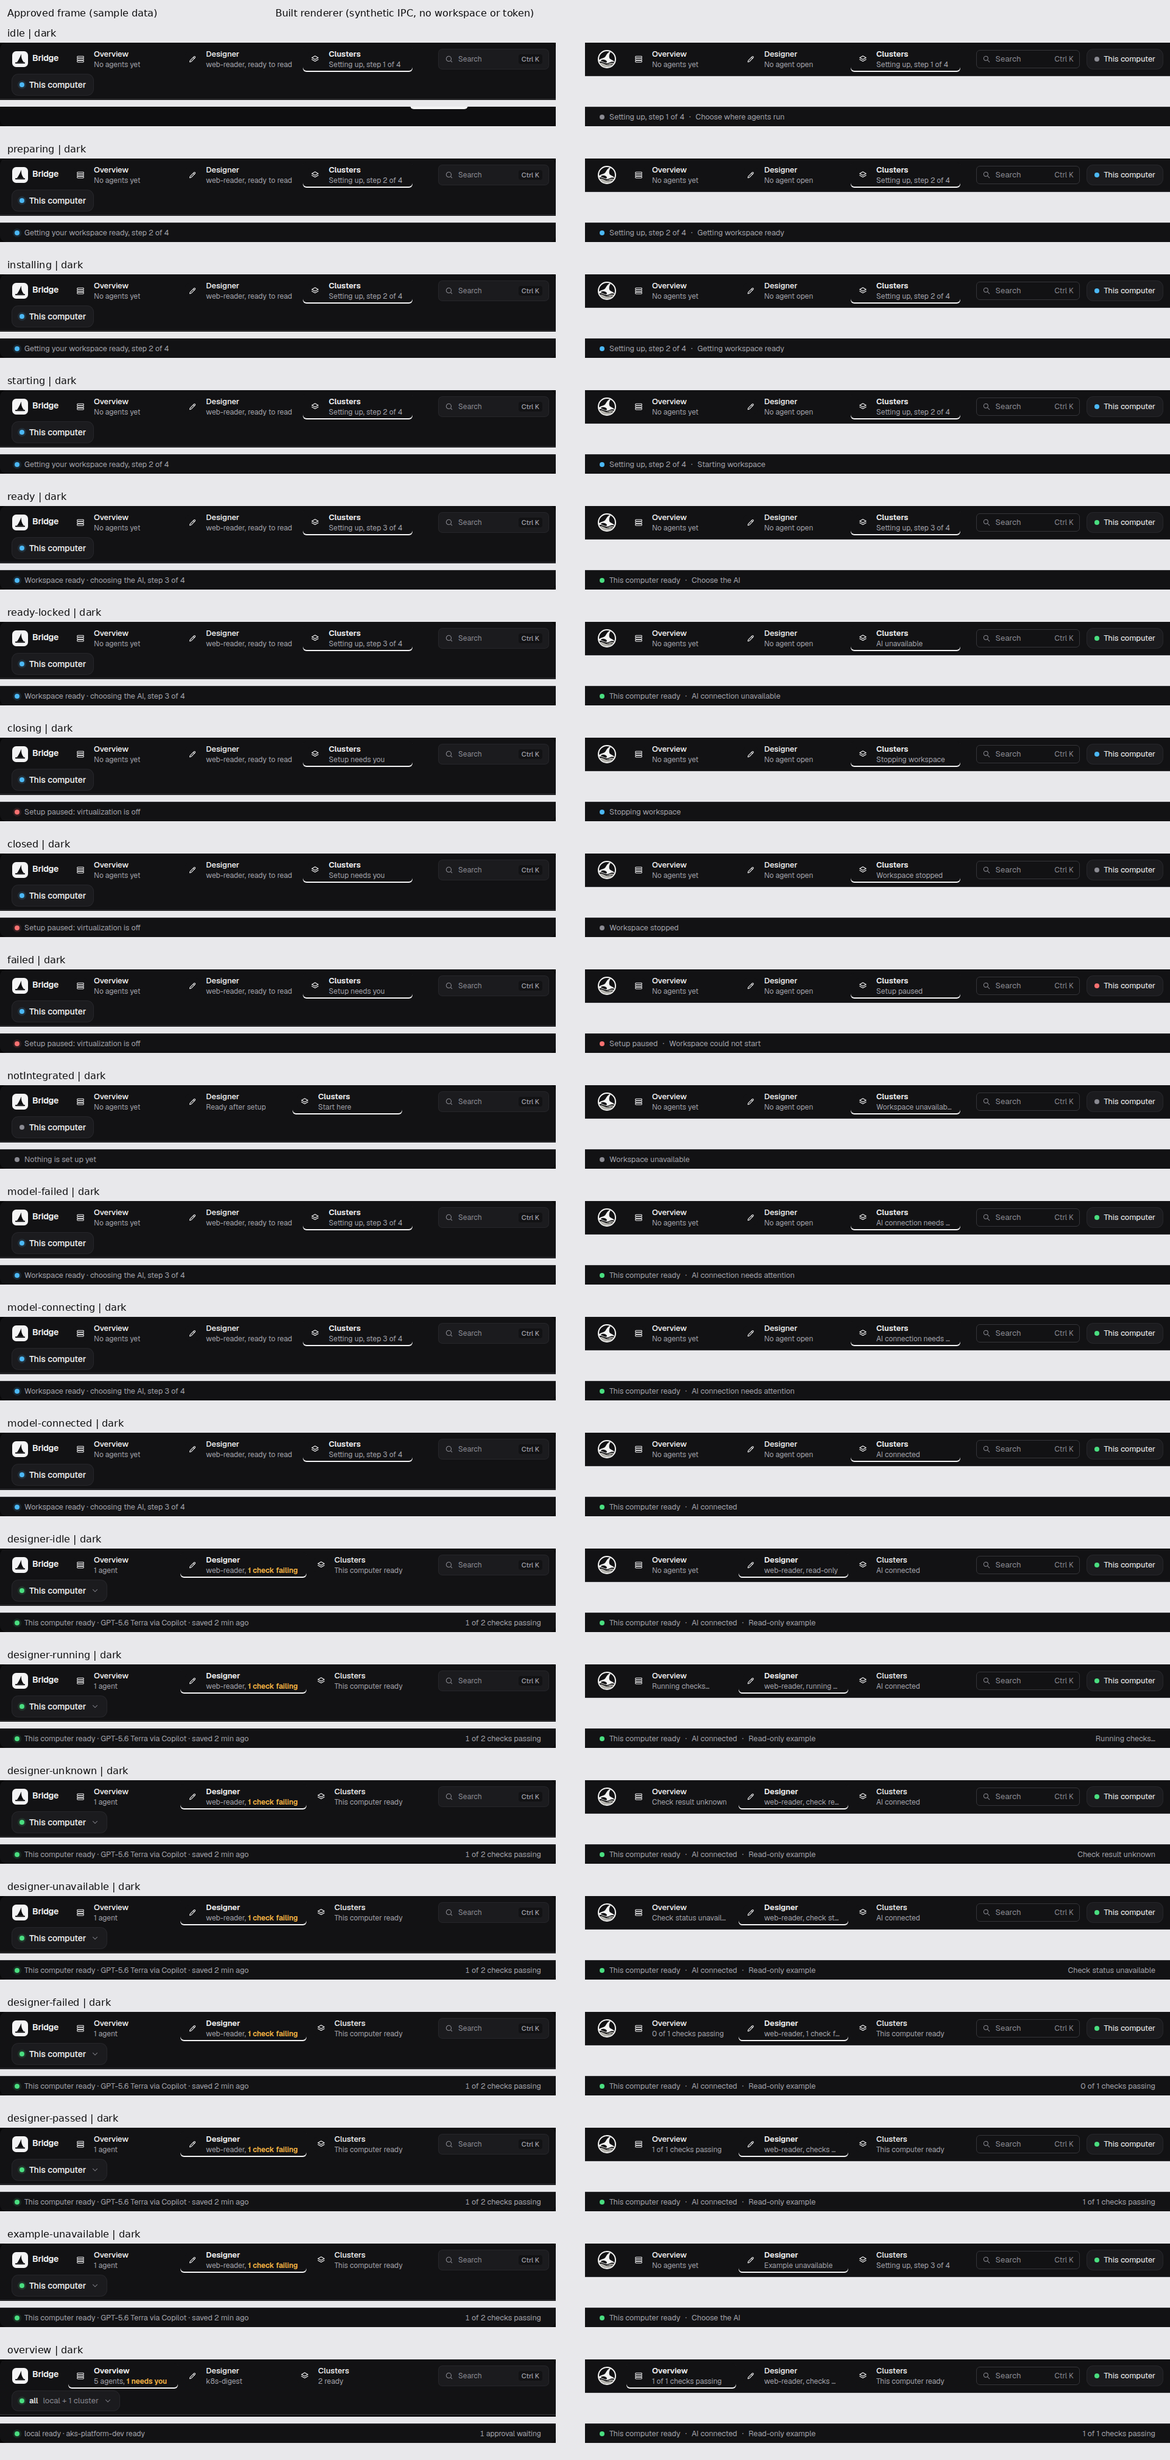
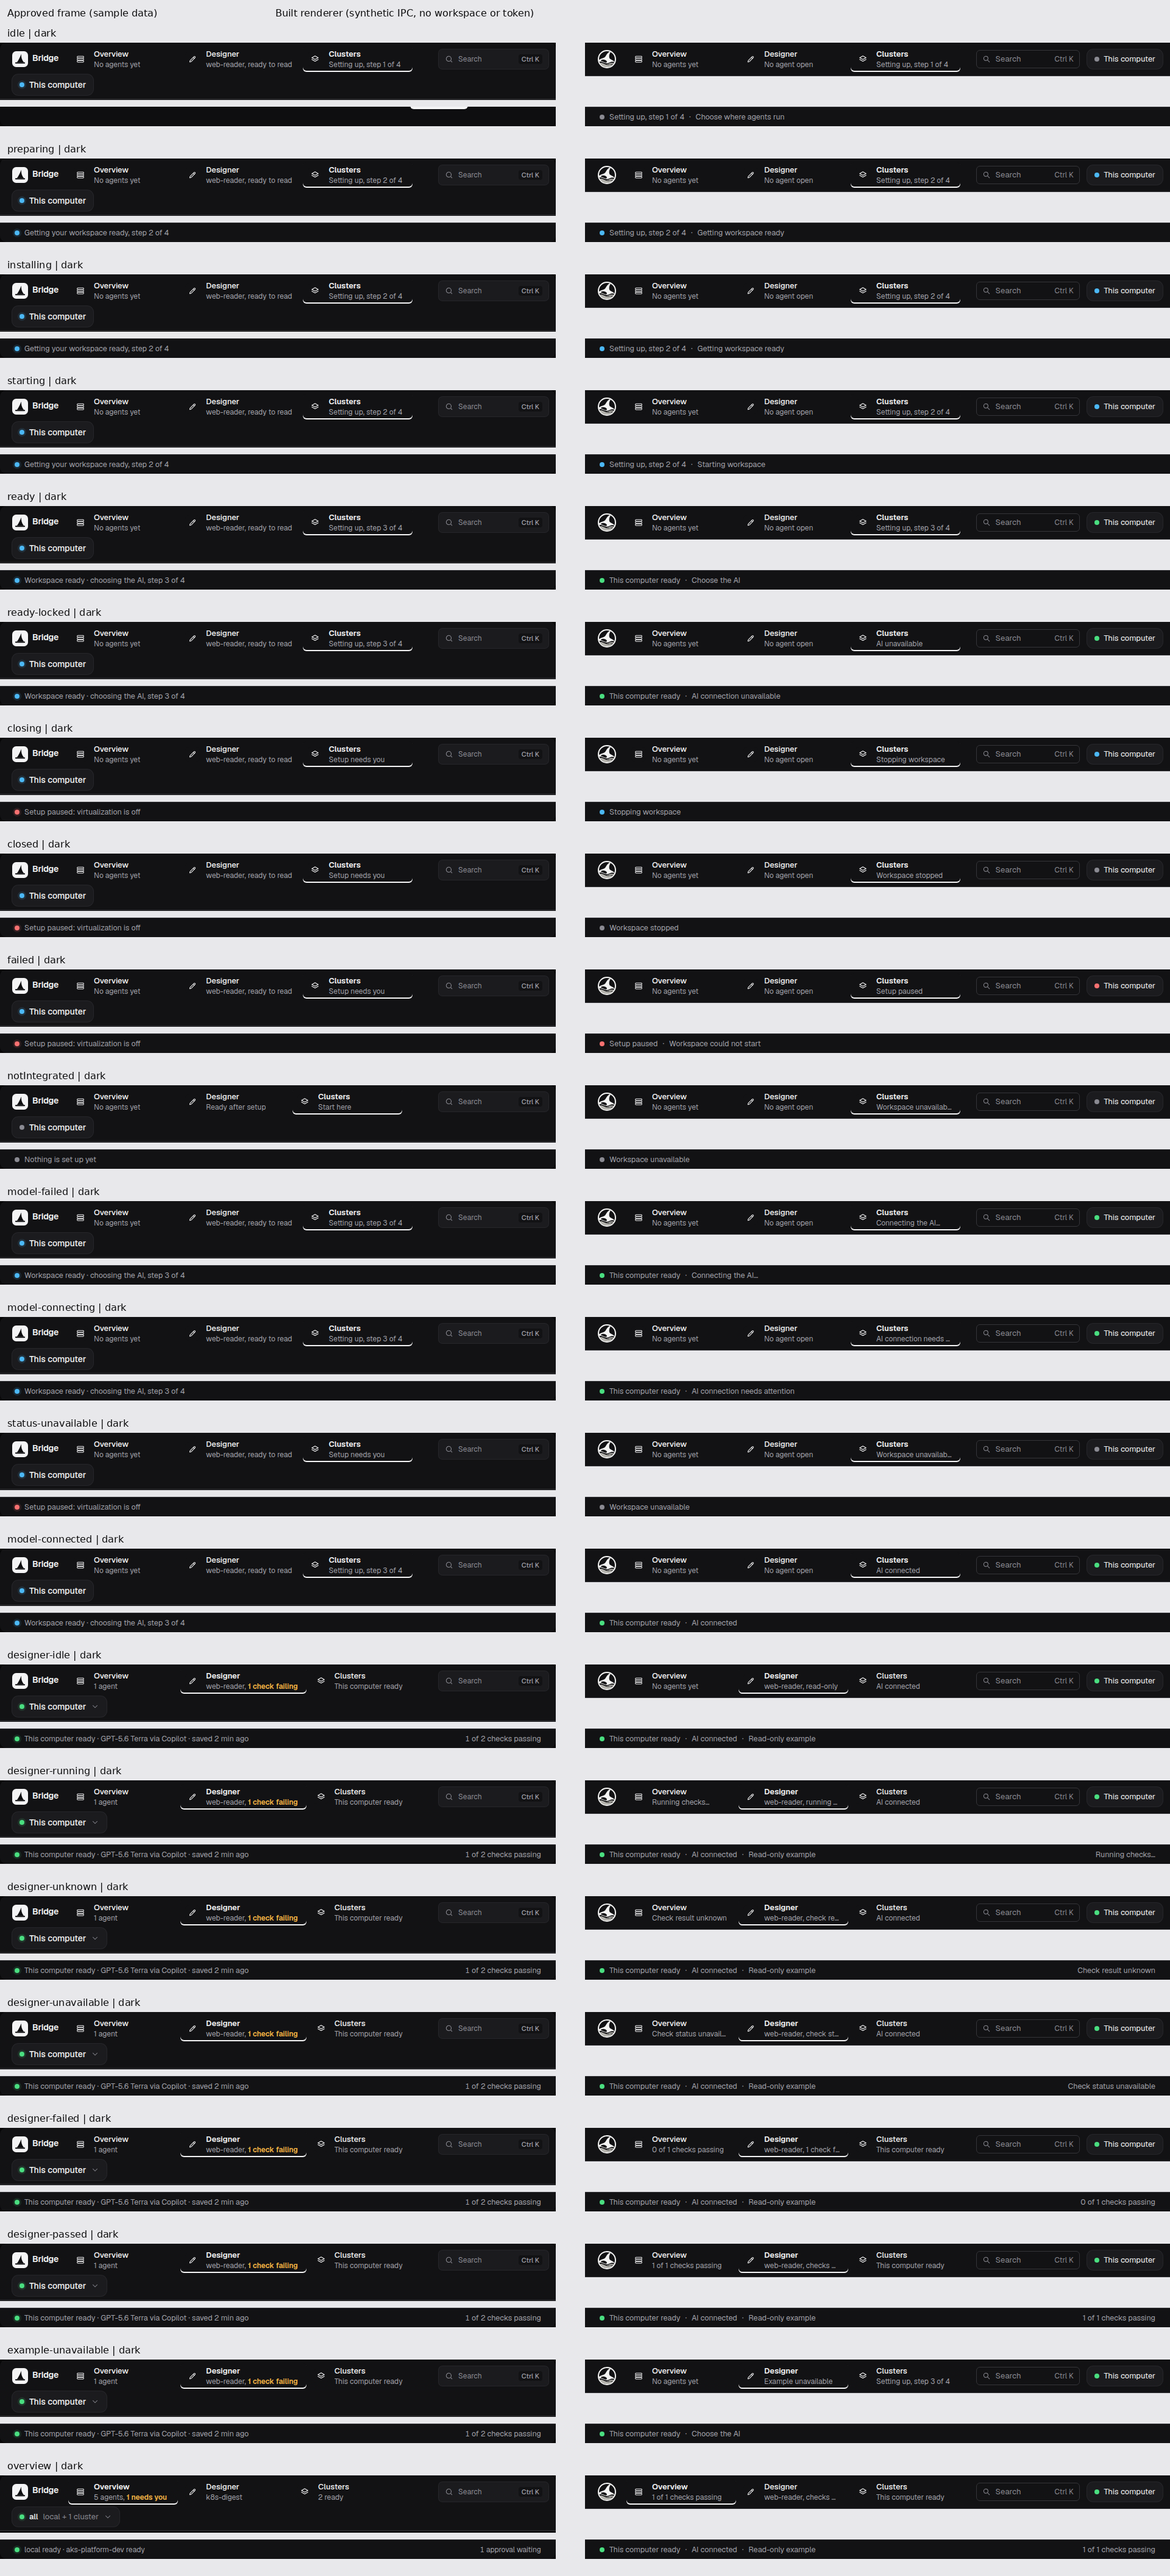
Preserve model acknowledgments across unreadable setup observations

diff --git a/app/src/setup/Model.tsx b/app/src/setup/Model.tsx
@@ -2,7 +2,7 @@ import { useEffect, useRef, useState } from 'react';
 import { connectModel } from './modelState';
 
 export type ModelState = 'idle' | 'connecting' | 'connected' | 'failed';
-export default function Model({ enabled, onState }: { enabled: boolean; onState?: (state: ModelState) => void }) {
+export default function Model({ enabled, paused = false, onState }: { enabled: boolean; paused?: boolean; onState?: (state: ModelState) => void }) {
   const [busy, setBusy] = useState(false);
   const [ready, setReady] = useState(false);
   const [error, setError] = useState<string>();
@@ -18,7 +18,7 @@ export default function Model({ enabled, onState }: { enabled: boolean; onState?
     onState?.(!enabled ? 'idle' : busy ? 'connecting' : ready ? 'connected' : error ? 'failed' : 'idle');
   }, [enabled, busy, ready, error, onState]);
   async function connect() {
-    if (!enabled || active.current || ready) return;
+    if (!enabled || paused || active.current || ready) return;
     active.current = true;
     const request = ++epoch.current;
     setBusy(true); setError(undefined);
@@ -32,7 +32,7 @@ export default function Model({ enabled, onState }: { enabled: boolean; onState?
     <h2 id="model-title">{enabled ? 'Connect a model' : 'Model connection locked'}</h2>
     {!enabled ? <p className="muted">Start the local VM before connecting a model. No credentials are sent.</p>
       : <p className="muted">Use your existing GitHub CLI sign-in for Copilot in this VM. Bridge stores it in the native credential store and delivers it privately to the guest.</p>}
-    <button type="button" className="setup-button" disabled={!enabled || busy || ready} onClick={() => { void connect(); }}>
+    <button type="button" className="setup-button" disabled={!enabled || paused || busy || ready} onClick={() => { void connect(); }}>
       {!enabled ? 'Connect model' : busy ? 'Connecting model…' : ready ? 'Model connected' : 'Use GitHub sign-in'}
     </button>
     {busy && <p role="status">Reading the sign-in, storing it and connecting the guest model…</p>}

diff --git a/app/src/setup/Setup.tsx b/app/src/setup/Setup.tsx
@@ -30,7 +30,10 @@ export default function Setup({ onOpenExample, onReady, onStatus, onModelState, 
     void setupStatus().then(result => {
       if (request !== epoch.current) return;
       if (result.ok) { setStatus(result.status); setError(undefined); }
-      else { setStatus(undefined); setError(result.message); }
+      else {
+        // An unreadable observation pauses actions, not an already admitted connection.
+        setError(result.message);
+      }
       const waiting = result.ok && pending(result.status.localVm);
       setBusy(waiting);
       timer.current = setTimeout(() => setCheck(value => value + 1), waiting ? 250 : 1000);
@@ -63,7 +66,7 @@ export default function Setup({ onOpenExample, onReady, onStatus, onModelState, 
         <h2 id="setup-title">Choose where your agents run</h2>
         <p className="muted">{status?.localVm === 'notIntegrated' ? 'This saves a choice only. Nothing is downloaded or started.'
           : 'Local VM uses the verified development image and starts Orka on this computer.'}</p>
-        <fieldset disabled={busy || !status}>
+        <fieldset disabled={busy || !status || !!error}>
           <legend>Runtime</legend>
           <label><input type="radio" name="runtime" checked={status?.selected === 'localVm'}
             onChange={() => { void chooseLocal(); }} />
@@ -86,7 +89,7 @@ export default function Setup({ onOpenExample, onReady, onStatus, onModelState, 
             onClick={() => { setBusy(true); setError(undefined); setCheck(value => value + 1); }}>Check again</button>
         </div>}
       </section>
-      <Model enabled={status?.localVm === 'ready' && status.model === 'available'} onState={onModelState} />
+      <Model enabled={status?.localVm === 'ready' && status.model === 'available'} paused={!!error} onState={onModelState} />
     </div>
     </>
   );

diff --git a/app/src/App.test.tsx b/app/src/App.test.tsx
@@ -229,6 +229,26 @@ test('a transient setup read failure recovers while off Clusters', async () => {
   expect(await within(screen.getByRole('navigation')).findByText('Setting up, step 2 of 4', {}, { timeout: 2000 })).toBeTruthy();
 });
 
+test('a transient setup read failure does not invalidate an admitted model connection', async () => {
+  let fail = false;
+  let finishConnect!: (value: unknown) => void;
+  mockIPC(command => {
+    if (command === 'setup_status') return fail ? Promise.reject(new Error('read failed')) : { selected: 'localVm', localVm: 'ready', model: 'available' };
+    if (command === 'setup_connect_model') return new Promise(resolve => { finishConnect = resolve; });
+    return { kind: 'version', version: 'v0.4.2', hasDiagnostics: false };
+  });
+  vi.stubGlobal('isTauri', true);
+  const user = userEvent.setup(); render(<App />);
+  await user.click(await screen.findByRole('button', { name: 'Use GitHub sign-in' }));
+  fail = true;
+  await within(screen.getByRole('navigation')).findByText('Workspace unavailable', {}, { timeout: 2000 });
+  await act(async () => { finishConnect({ ready: true }); });
+  expect(screen.getByRole('button', { name: 'Model connected' }).matches(':disabled')).toBe(true);
+  fail = false;
+  expect(await within(screen.getByRole('contentinfo')).findByText('AI connected', {}, { timeout: 2000 })).toBeTruthy();
+  expect(screen.getByRole('button', { name: 'Model connected' }).matches(':disabled')).toBe(true);
+});
+
 test('Clusters reads setup and version without fetch or legacy IPC', async () => {
   const ipc = vi.fn(command => command === 'setup_status'
     ? { selected: null, localVm: 'notIntegrated', model: 'locked' }
